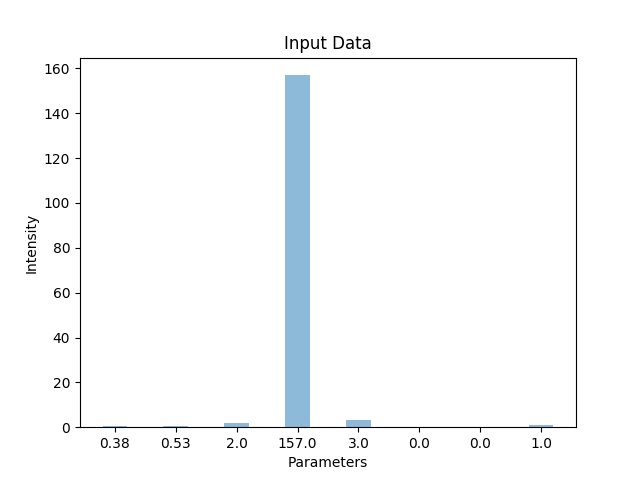
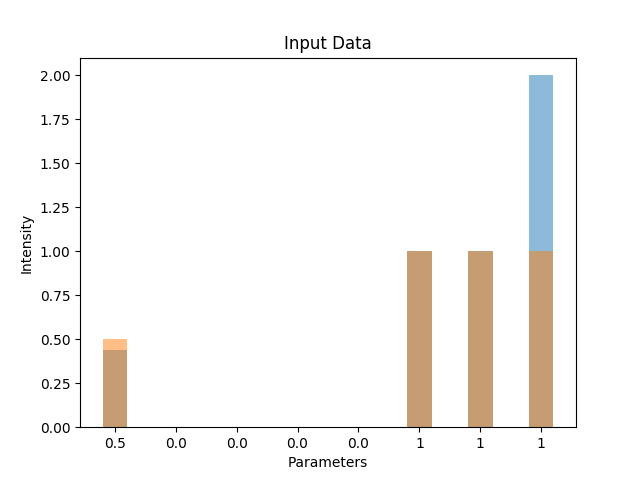
added new result input

diff --git a/templates/input.html b/templates/input.html
@@ -1,0 +1,107 @@
+<!DOCTYPE html>
+<html lang="en">
+
+<head>
+    <meta charset="UTF-8">
+    <meta name="viewport" content="width=device-width, initial-scale=1.0">
+    <meta http-equiv="X-UA-Compatible" content="ie=edge">
+    <!-- Compiled and minified CSS -->
+    <link rel="stylesheet" href="https://cdnjs.cloudflare.com/ajax/libs/materialize/1.0.0-beta/css/materialize.min.css">
+    <!-- Compiled and minified JavaScript -->
+    <script src="https://cdnjs.cloudflare.com/ajax/libs/materialize/1.0.0-beta/js/materialize.min.js"></script>
+    <script src="http://cdnjs.cloudflare.com/ajax/libs/jquery/3.3.1/jquery.min.js" integrity="sha256-FgpCb/KJQlLNfOu91ta32o/NMZxltwRo8QtmkMRdAu8="
+        crossorigin="anonymous"></script>
+
+    <title>Hr-Sidekick</title>
+</head>
+<style>
+    .wrapper {
+        height: 90vh;
+        width: 90vw;
+        transform: translate(-50%, -50%);
+        position: absolute;
+        left: 50%;
+        top: 50%;
+        background-color: #f4f4f4;
+    }
+
+    .editForm {
+        width: 50%;
+        margin: auto;
+        position: absolute;
+        top: 50%;
+        left: 50%;
+        transform: translate(-50%, -50%);
+    }
+</style>
+
+<body>
+    <div class="wrapper">
+        <div class="editForm">
+            <form action="rf_tester" method="POST">
+                <p class="range-field">
+                    <label for="satisfaction_level">Satisfaction Level</label>
+                    <input type="range" value="50" id="satisfaction_level" name="satisfaction_level" min="0" max="100" />
+                </p>
+                <p>
+                    <label for="last_evaluation">Last evaluation</label>
+                    <input id="last_evaluation" value="0" name="last_evaluation" min="0" type="number">
+                </p>
+                <p>
+                    <label for="number_project">Number of projects</label>
+                    <input id="number_project" value="0" name="number_project" min="0" type="number">
+                </p>
+                <p>
+                    <label for="average_montly_hours">Average monthly hours</label>
+                    <input id="average_montly_hours" value="0" name="average_montly_hours" min="0" type="number">
+                </p>
+                <p>
+                    <label for="time_spend_company">Time spent in company</label>
+                    <input id="time_spend_company" value="0" name="time_spend_company" min="0" type="number">
+                </p>
+                <p>
+                    <label for="Work_accident">Work Accident</label>
+                    <div class="switch">
+                        <label>
+                            No
+                            <input id="Work_accident" name="Work_accident" type="checkbox">
+                            <span class="lever"></span>
+                            Yes
+                        </label>
+                    </div>
+                </p>
+                <p>
+                    <label for="promotion_last_5years">Any promotion in the last 5 years ?</label>
+                    <div class="switch">
+                        <label>
+                            No
+                            <input id="promotion_last_5years" name="promotion_last_5years" type="checkbox">
+                            <span class="lever"></span>
+                            Yes
+                        </label>
+                    </div>
+                </p>
+                <p>
+                        <label>Salary scale relative to your organization</label>
+
+                    <div class="input-field">
+                        <select name="salary" id="salary">
+                            <option value="" disabled selected>Choose your option</option>
+                            <option value="1">Low</option>
+                            <option value="2">Medium</option>
+                            <option value="0">High</option>
+                        </select>
+                    </div>
+                </p>
+                <input type="submit" value="Submit">
+            </form>
+        </div>
+    </div>
+</body>
+<script>
+    $(document).ready(function () {
+        M.AutoInit();
+    });
+</script>
+
+</html>

diff --git a/server.py b/server.py
@@ -43,21 +43,32 @@ def logout():
 @app.route('/rf_tester')
 def input_data():
     error = None
-    if not session.get('logged_in'):
-        error = 'You need to login first.'
-        return render_template('login.html', error=error)
-    else:
-        return render_template('data_input.html')
+    # if not session.get('logged_in'):
+    #     error = 'You need to login first.'
+    #     return render_template('login.html', error=error)
+    # else:
+    return render_template('input.html')
 
 
 @app.route('/rf_tester', methods=['POST'])
 def generate_result():
-    text = request.form['text']
-    processed_text = [float(i) for i in text.split(',')]
+    # text = request.form['text']
+    # processed_text = [float(i) for i in text.split(',')]
+    processed_text = [
+        float(request.form['satisfaction_level']) / 100,
+        float(request.form['last_evaluation']),
+        float(request.form['number_project']),
+        float(request.form['average_montly_hours']),
+        float(request.form['time_spend_company']),
+        1 if request.form['Work_accident'] == 'on' else 0,
+        1 if request.form['promotion_last_5years'] == 'on' else 0,
+        int(request.form['salary'])
+    ]
+    print(processed_text)
     value = predict(processed_text, 'randomForest')
     vis.input_data_chart(processed_text)
     clf = _loadClassifier("classifiers/randomForest.pkl")  # % classifierName)
-    vis.feature_importances(clf)
+    # vis.feature_importances(clf)
     if value[0] == 1:
         return render_template('result.html', cursor='Employee will not leave company.')
     else:

diff --git a/helpers/visualizer.py b/helpers/visualizer.py
@@ -21,7 +21,7 @@ def accuracy_ratio():
 	
 ## plot the importances ##
 def feature_importances(classifier):
-	importances = classifier.feature_importances_
+	importances = classifier.best_estimator_.feature_importances_
 	feat_names = ['','','','','','','']
 	indices = np.argsort(importances)[::-1]
 	plt.figure(figsize=(12,6))
